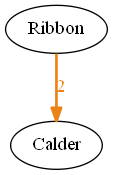
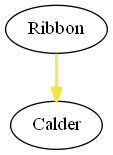
oh BOY
added a fuckton of methods to the gui

edited logic in graph

Changed region(s): [[0.0265, 0.0, 0.9558, 0.9806], [0.2389, 0.1032, 0.7434, 0.2323], [0.292, 0.7484, 0.7168, 0.8774]]

diff --git a/gui.py b/gui.py
@@ -4,7 +4,7 @@
 import sys
 
 #imports the gui aspect of pyqt
-from PyQt5 import QtCore, QtWidgets
+from PyQt5 import QtCore, QtWidgets, Qt
 from PyQt5.QtWidgets import *
 from PyQt5.QtCore import *
 
@@ -24,6 +24,9 @@ class VeilGUI(QDialog):
       #list to contain edges created later
       self.edgesList = []
 
+      #dict to contain radio boxes created later
+      self.radioButtonsDict = {}
+
       #creates the grid where the widgets will be placed
       grid = QGridLayout()
 
@@ -31,52 +34,63 @@ class VeilGUI(QDialog):
       grid.addWidget(self.namesBoxGroup(), 0, 0)
       grid.addWidget(self.obligationsBoxGroup(), 1,0)
       grid.addWidget(self.statesBoxGroup(), 0, 1)
-      grid.addWidget(self.edgeButtonsGroup(), 2, 0)
-      grid.addWidget(self.saveButtonGroup(), 3, 1)
+      grid.addWidget(self.tenorBoxGroup(), 1, 1)
+      grid.addWidget(self.lineBoxGroup(), 2, 0)
+      grid.addWidget(self.addButtonGroup(), 2, 1)
+      grid.addWidget(self.edgeComboBoxGroup(), 3, 0, 1, 2)
+      grid.addWidget(self.edgeButtonsGroup(), 4,0)
+      grid.addWidget(self.saveButtonGroup(), 4, 1)
+
 
       #creates grid
       self.setLayout(grid)
 
    #
-   def radioMaker(self, label, buttonsList):
+   def radioMaker(self, group, label, buttonsList):
       radioBox = QGroupBox(label)
       radioLayout = QVBoxLayout()
       radioButtons = [QRadioButton(b) for b in buttonsList]
-      radioButtons[0].setChecked(True)   
-      self.radioButtonsGroup = QButtonGroup()
+      radioButtons[0].setChecked(True)
+      self.radioButtonsDict.update({group:QButtonGroup()})
       for i, self.button in enumerate(radioButtons):
          radioLayout.addWidget(self.button)
-         self.radioButtonsGroup.addButton(radioButtons[i])
+         self.radioButtonsDict[group].addButton(radioButtons[i])
 
-      
       radioBox.setLayout(radioLayout)
 
       return radioBox
 
-   def edgeButtonsGroup(self):
-      #creates buttons labeled add, edit, and delete
-      addingButton = QPushButton("Add")
+   def addButtonGroup(self):
+      #creates button labeled add
+      addingButton = QPushButton("Add Connection")
       addingButton.setCheckable(True)
 
-      editingButton = QPushButton("Edit")
-      editingButton.setCheckable(True)
-      editingButton.setEnabled(False)
+      #box containing add button
+      addingButtonBox = QDialogButtonBox()
+      addingButtonBox.addButton(addingButton, QDialogButtonBox.ActionRole)
 
-      deletingButton = QPushButton("Delete")
-      deletingButton.setCheckable(True)
-      deletingButton.setEnabled(False)
-
-      #box containing add, edit, and delete buttons (these modify the edges)
-      edgeButtonsBox = QDialogButtonBox()
-      edgeButtonsBox.addButton(addingButton, QDialogButtonBox.ActionRole)
-      edgeButtonsBox.addButton(editingButton, QDialogButtonBox.ActionRole)
-      edgeButtonsBox.addButton(deletingButton, QDialogButtonBox.ActionRole)      
-      
       #when clicked, run the add_button_clicked, edit_button_clicked, and del_button_clicked methods respectively
-      #latter two not implemented yet :'(
       addingButton.clicked.connect(self.add_button_clicked)
-  #    editingButton.clicked.connect(self.edit_button_clicked)
-   #   deletingButton.clicked.connect(self.del_button_clicked)
+
+      return addingButtonBox
+
+   def edgeButtonsGroup(self):
+      #creates buttons labeled edit, and delete
+      self.editingButton = QPushButton("Edit")
+      self.editingButton.setCheckable(True)
+      self.editingButton.setEnabled(False)
+
+      self.deletingButton = QPushButton("Delete")
+      self.deletingButton.setCheckable(True)
+      self.deletingButton.setEnabled(False)
+
+      #box containing edit, and delete buttons (these modify the edges)
+      edgeButtonsBox = QDialogButtonBox()
+      edgeButtonsBox.addButton(self.editingButton, QDialogButtonBox.ActionRole)
+      edgeButtonsBox.addButton(self.deletingButton, QDialogButtonBox.ActionRole)      
+      
+  #    self.editingButton.clicked.connect(self.edit_button_clicked)
+      self.deletingButton.clicked.connect(self.del_button_clicked)
 
       return edgeButtonsBox
       
@@ -96,18 +110,25 @@ class VeilGUI(QDialog):
 
       return self.saveButtonBox
 
+   #box for the names of the source and target
    def namesBoxGroup(self):
+      #labels box
       namesBox = QGroupBox('Names')
+      #creates source line field and labels it
       sourceLabel = QLabel('Starting Person')
       self.sourceLine = QLineEdit()
+      #creates target source line field and labels it
       targetLabel = QLabel('Ending Person')
       self.targetLine = QLineEdit()
+      #creates layout
       namesLayout = QVBoxLayout()
+      #adds line fields and labels to layout
       namesLayout.addWidget(sourceLabel)
       namesLayout.addWidget(self.sourceLine)
       namesLayout.addWidget(targetLabel)
       namesLayout.addWidget(self.targetLine)
       
+      #sets box as layout
       namesBox.setLayout(namesLayout)
 
       return namesBox
@@ -115,40 +136,86 @@ class VeilGUI(QDialog):
    def statesBoxGroup(self):
       states = ['joyful', 'angry', 'powerful', 'peaceful', 'sad', 'scared']
       
-      return self.radioMaker('State', states) 
+      return self.radioMaker('stateGroup', 'State', states) 
+
+   def tenorBoxGroup(self):
+      tenors = ['toward', 'for']
+
+      return self.radioMaker('tenorGroup', 'Tenor of state', tenors)
+
+   def lineBoxGroup(self):
+      lines = ['strong', 'tenuous']
+
+      return self.radioMaker('lineGroup', 'Strength of relationship', lines)
 
    def obligationsBoxGroup(self):
-      obligationBox = QGroupBox('Obligations owed to starting person')
-      self.obligationLine = QLineEdit()
+      obligationBox = QGroupBox('Obligations owed')
+      self.obligationLabel = QLabel('Enter integer:')
+      self.obligationSpinBox = QSpinBox()
       obligationBoxLayout = QVBoxLayout()
-      obligationBoxLayout.addWidget(self.obligationLine)
+      obligationBoxLayout.addWidget(self.obligationSpinBox)
       
       obligationBox.setLayout(obligationBoxLayout)
 
       return obligationBox
 
+   def edgeComboBoxGroup(self):
+      edgeComboBox = QGroupBox('List of connections')
+      self.edgeCombo = QComboBox()
+      edgeComboBoxLayout = QHBoxLayout()
+      edgeComboBoxLayout.addWidget(self.edgeCombo)
+      edgeComboBox.setLayout(edgeComboBoxLayout)
+
+      self.edgeCombo.currentIndexChanged.connect(self.buttons_enabled)
+
+      return edgeComboBox
+   
+   #### METHODS ####
+
+
+   def buttons_enabled(self):
+      if self.edgesList:
+         self.editingButton.setEnabled(True)
+         self.deletingButton.setEnabled(True)
+
+
    def add_button_clicked(self):
       #sets variables then clears the text fields when applicable
       source = self.sourceLine.text()
       self.sourceLine.setText('')
+      
       target = self.targetLine.text()
       self.targetLine.setText('')
-      state = self.radioButtonsGroup.checkedButton().text()
-      obligation = self.obligationLine.text()
-      self.obligationLine.setText('')
+      
+      if self.obligationSpinBox.value() != 0:
+         obligation = self.obligationSpinBox.value()
+      else:
+         obligation = None
+
+      state = self.radioButtonsDict['stateGroup'].checkedButton().text()
+
+      tenor = self.radioButtonsDict['tenorGroup'].checkedButton().text()
+      
+      line = self.radioButtonsDict['lineGroup'].checkedButton().text()
+
       if source and target:
-         connectionObject = graph.Connection(source, target, state, obligation)
-         print(graph.listConnection(connectionObject))
-         #print(self.edgesList)
+         connectionObject = graph.Connection(source, target, state, obligation, tenor, line)
+         self.edgesList.append(connectionObject)
+         connectionsList = graph.listConnection(connectionObject)
+         self.edgeCombo.addItem(connectionsList[0]+' to '+connectionsList[1])
 
+   def del_button_clicked(self):
+      refNum = self.edgeCombo.currentIndex()
+      graph.removeEdge(self.edgesList[refNum])
+      self.edgesList.pop(refNum)
+      self.edgeCombo.removeItem(refNum)
 
+   
    def save_button_clicked(self):
       for edge in self.edgesList:
-         print(edge)
          graph.addEdge(edge)
-         print(graph.g.edges())
-         #p = graph.to_pydot(graph.g)
-         #p.write_png('test.png', prog='dot')
+         p = graph.to_pydot(graph.g)
+         p.write_png('test.png', prog='dot')
 
 
 

diff --git a/graph.py b/graph.py
@@ -5,7 +5,7 @@
 #graph maker
 import networkx as nx
 #converts graph to .dot file to be written by graphviz
-from networkx.drawing.nx_pydot import to_pydot
+from networkx.drawing.nx_pydot import to_pydot, write_dot
 import pydot
 
 #defines a directed multigraph called 'The Veil':
@@ -14,18 +14,18 @@ g = nx.MultiDiGraph(label="The Veil")
 
 #colors for the emotional states. 
 #these are dictionaries so that the add_edges_from networkx function can read them properly
-colors = {'blue':'#545b90', 'yellow':'#fbfd54', 'green':'#438718', 'red':'#a90f0f', 'purple':'#954ed2', 'orange':'#ea8218'}
+colors = {'blue':'#545b90', 'yellow':'#f6e53d', 'green':'#438718', 'red':'#a90f0f', 'purple':'#954ed2', 'orange':'#ea8218'}
 
 #states and obligationColors that are linked to the aforementioned colors
 #they are dictionaries so i can reference their names instead of the color when using attributes. like states[sad] instead of colors[blue]
 #subject to change as this gets more general
 states = {'sad':{'color':colors['blue']}, 'joyful':{'color':colors['yellow']}, 'scared':{'color':colors['green']}, 'angry':{'color':colors['red']}, 'powerful':{'color':colors['purple']}, 'peaceful':{'color':colors['orange']}}
-obligationColors = {'sadLabel':{'fontcolor':colors['blue']}, 'joyfulLabel':{'fontcolor':colors['yellow']}, 'scaredLabel':{'fontcolor':colors['green']}, 'angryLabel':{'fontcolor':colors['red']}, 'powerfulLabel':{'fontcolor':colors['purple']}, 'peacefulLabel':{'fontcolor':colors['orange']}}
+obligationColors = {'sad':{'fontcolor':colors['blue']}, 'joyful':{'fontcolor':colors['yellow']}, 'scared':{'fontcolor':colors['green']}, 'angry':{'fontcolor':colors['red']}, 'powerful':{'fontcolor':colors['purple']}, 'peaceful':{'fontcolor':colors['orange']}}
 #determines arrowhead style (whether it's an arrow or an empty dot)
 #indicates whether the emotion is felt about someone or for someone's sake
 #"i am mad at you" = arrow
 #"i am scared for your sake" = dot
-isFor = {'arrowhead':'odot'}
+tenors = {'for':{'arrowhead':'odot'}, 'toward':{'arrowhead':'normal'}}
 #determines edge (line) style (whether it's dotted or a bold line)
 #indicates how strong relationship is
 #tenuous/not fully formed = dotted
@@ -35,13 +35,12 @@ strength = {'tenuous':{'style':'dotted'}, 'strong':{'style':'bold'}}
 #a class that creates objects that can be used to make edges with the add_edges_from function
 #attributes are all attributes that the edge will have
 class Connection:
-    def __init__(self, source, target, state, obligation=None, fontcolor=None, arrow=None, line=strength['strong']):
+    def __init__(self, source, target, state, obligation=None, tenor=None, line='strong'):
         self.source = source
         self.target = target
         self.state = state
         self.obligation = obligation
-        self.fontcolor = fontcolor
-        self.arrow = arrow
+        self.tenor = tenor
         self.line = line
 
     # puts attributes in a dictionary to be read as needed
@@ -51,10 +50,7 @@ class Connection:
             [(k, v) for k, v in self.__dict__.items() if not k.startswith('_')]
         )
 
-#creates some objects
-RibbonCalder = Connection('Ribbon', 'Calder', 'peaceful', {'label':'2'}, obligationColors['peacefulLabel'])
-CalderRibbon = Connection('Calder', 'Ribbon', 'scared', isFor)
-RibbonAliquot = Connection('Ribbon', 'Aliquot', 'peaceful', {'label':'1'}, obligationColors['peacefulLabel'])
+RibbonCalder = Connection('Ribbon', 'Calder', 'joyful')
 
 #turns object attributes into a list that can be readable by add_edges_from
 def listConnection(singleConnection):
@@ -67,13 +63,20 @@ def listConnection(singleConnection):
     #for attribute key in connectDict
     for attribute in connectDict:
         #if it's not already in there
+         #merges attribute to attributes dictionary according to attribute
         if connectDict[attribute] and attribute not in ('source', 'target'):
-            if connectDict[attribute]
-            attributes.update(states[singleConnection.state])
-            #merges attribute to attributes dictionary
-            attributes.update(connectDict[attribute])
+            if attribute is 'state':
+                attributes.update(states[singleConnection.state])
+            elif attribute is 'obligation':
+                attributes.update({'label':singleConnection.obligation})
+                attributes.update(obligationColors[singleConnection.state])
+            elif attribute is 'tenor':
+                attributes.update(tenors[singleConnection.tenor])
+            elif attribute is 'line':
+                attributes.update(strength[singleConnection.line])
+
     #adds dictionary to the names list
-    #['Ribbon', 'Calder' {'color': '#ea8218', other attributes}]
+    #looks like ['Ribbon', 'Calder' {'color': '#ea8218', other attributes}]
     names.append(attributes)
     return names
 
@@ -82,11 +85,15 @@ def listConnection(singleConnection):
 def addEdge(singleConnection):
     g.add_edges_from([listConnection(singleConnection)])
 
-#a call to add edge
-addEdge(RibbonCalder)
+def removeEdge(singleConnection):
+    g.remove_edge(listConnection(singleConnection))
 
+
+addEdge(RibbonCalder)
+removeEdge(RibbonCalder)
 
 #turns the graph g into a pydot format
 p = to_pydot(g)
+p.write_dot('test.dot')
 #writes pydot format graph into a png
 p.write_png('test.png')
